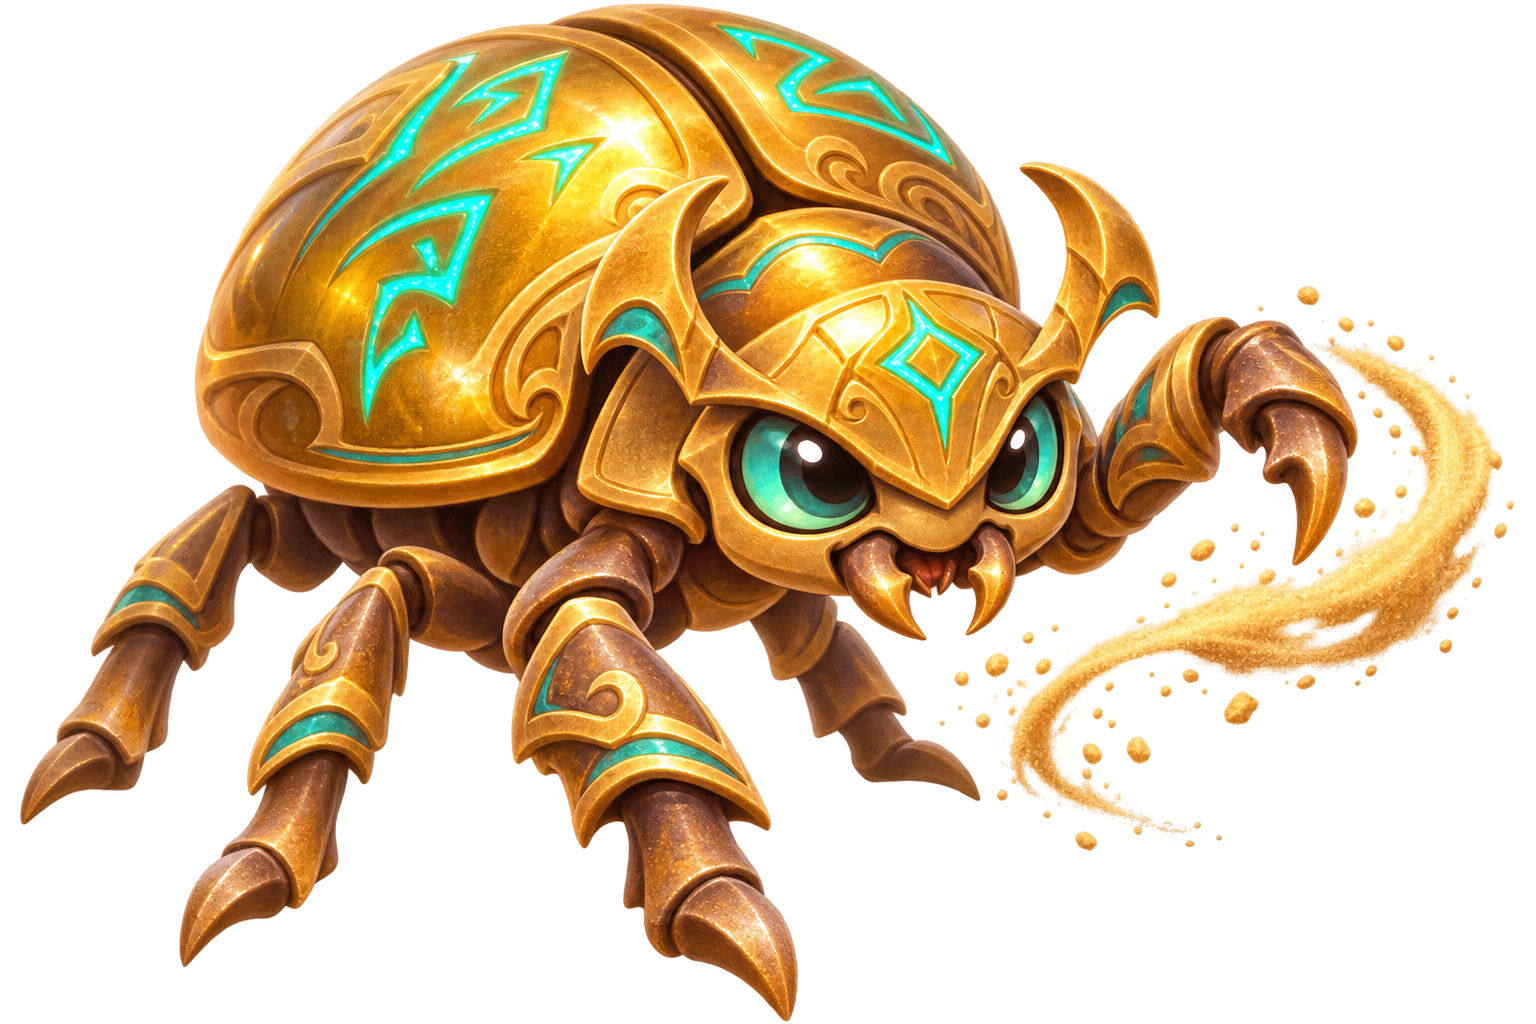
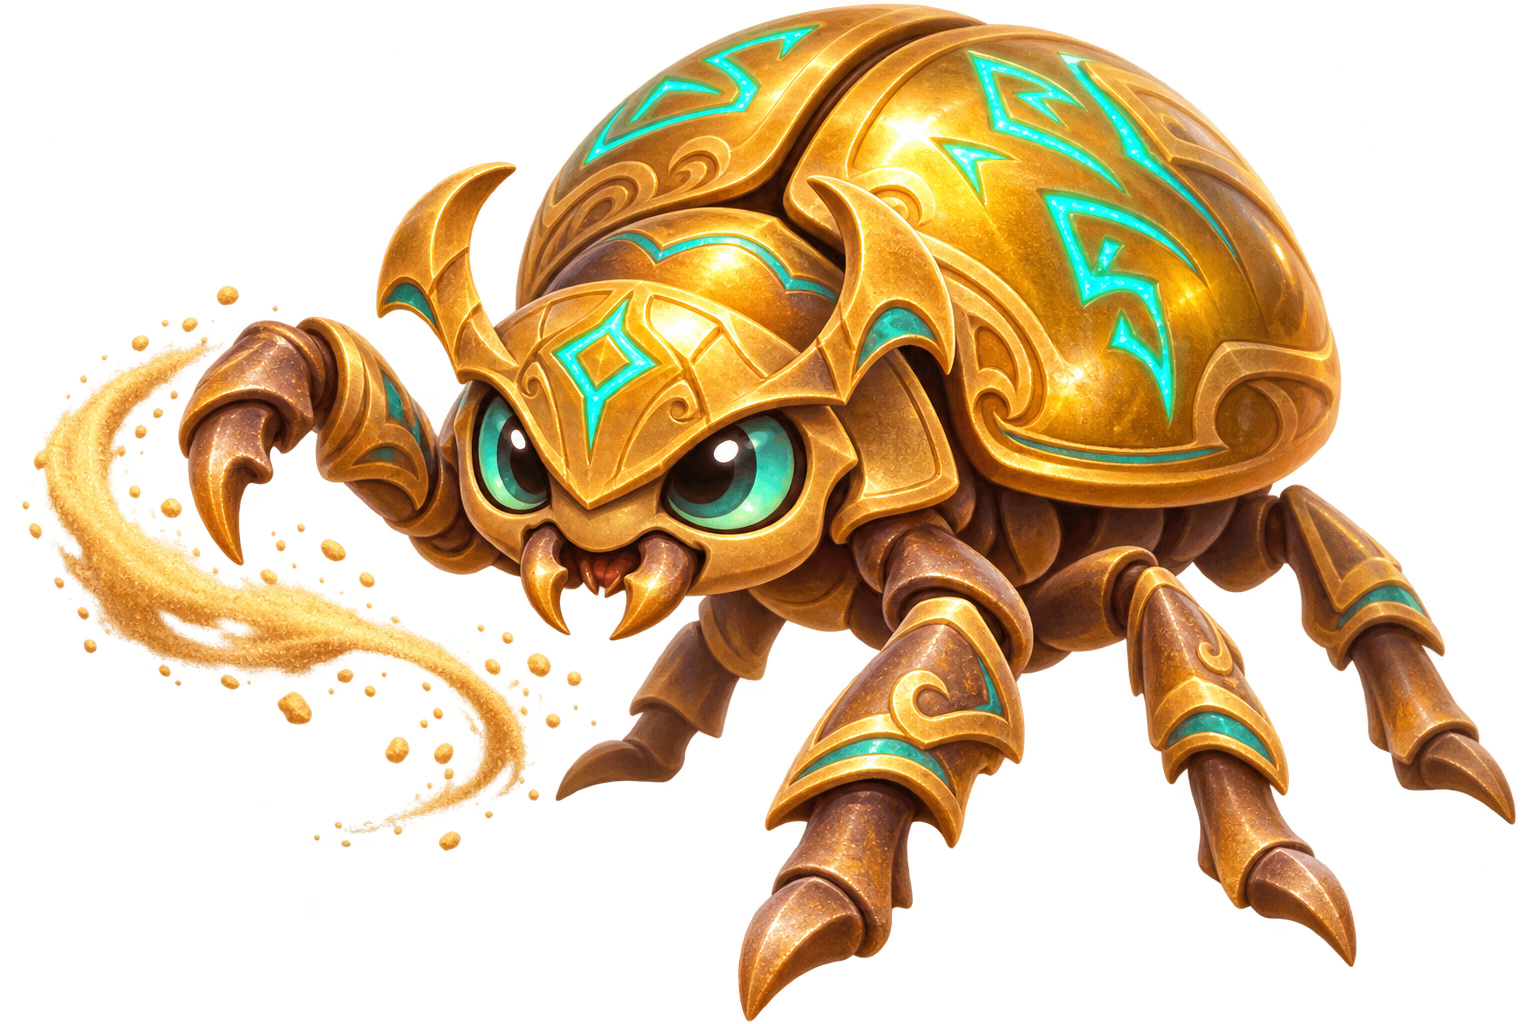
Mapas nuevos de Cavernas, Islas, Volcán y Desierto medidos; el mapa se adapta a plataformas muy separadas; escarabajo mirando a la izquierda; guía: orientación en cada personaje
Claude-Session: https://claude.ai/code/session_015BVxYbLd94MgXUvdp3siHg

diff --git a/lib/config/world_map_config.dart b/lib/config/world_map_config.dart
@@ -79,74 +79,97 @@ const List<Offset> _bosque3 = [
 
 // ---------- Mundo 2: Cavernas ----------
 const List<Offset> _cavernas1 = [
-  Offset(0.493, 0.766),
-  Offset(0.333, 0.712),
-  Offset(0.398, 0.518),
-  Offset(0.497, 0.356),
-  Offset(0.496, 0.248),
+  Offset(0.502, 0.780),
+  Offset(0.333, 0.577),
+  Offset(0.616, 0.505),
+  Offset(0.419, 0.349),
+  Offset(0.574, 0.237),
 ];
 const List<Offset> _cavernas2 = [
-  Offset(0.432, 0.778),
-  Offset(0.550, 0.647),
-  Offset(0.444, 0.482),
-  Offset(0.542, 0.331),
-  Offset(0.450, 0.194),
+  Offset(0.449, 0.772),
+  Offset(0.676, 0.553),
+  Offset(0.361, 0.429),
+  Offset(0.681, 0.320),
+  Offset(0.420, 0.189),
 ];
 const List<Offset> _cavernas3 = [
-  Offset(0.584, 0.791),
-  Offset(0.504, 0.694),
-  Offset(0.589, 0.555),
-  Offset(0.486, 0.448),
-  Offset(0.542, 0.352),
+  Offset(0.497, 0.785),
+  Offset(0.665, 0.593),
+  Offset(0.281, 0.505),
+  Offset(0.400, 0.313),
+  Offset(0.623, 0.224),
 ];
 
 // ---------- Mundo 3: Islas Flotantes ----------
 const List<Offset> _islas1 = [
-  Offset(0.409, 0.787),
-  Offset(0.486, 0.611),
-  Offset(0.464, 0.451),
-  Offset(0.589, 0.337),
-  Offset(0.491, 0.258),
+  Offset(0.208, 0.686),
+  Offset(0.507, 0.686),
+  Offset(0.769, 0.481),
+  Offset(0.356, 0.372),
+  Offset(0.622, 0.221),
 ];
 const List<Offset> _islas2 = [
-  Offset(0.522, 0.733),
-  Offset(0.433, 0.601),
-  Offset(0.494, 0.502),
-  Offset(0.436, 0.382),
-  Offset(0.522, 0.286),
+  Offset(0.190, 0.537),
+  Offset(0.315, 0.308),
+  Offset(0.513, 0.449),
+  Offset(0.705, 0.622),
+  Offset(0.860, 0.353),
 ];
 const List<Offset> _islas3 = [
-  Offset(0.654, 0.721),
-  Offset(0.446, 0.619),
-  Offset(0.530, 0.481),
-  Offset(0.442, 0.343),
-  Offset(0.525, 0.244),
+  Offset(0.208, 0.686),
+  Offset(0.507, 0.686),
+  Offset(0.769, 0.478),
+  Offset(0.356, 0.372),
+  Offset(0.622, 0.221),
 ];
 
 // ---------- Mundo 4: Volcán ----------
 const List<Offset> _volcan1 = [
-  Offset(0.493, 0.707),
-  Offset(0.421, 0.514),
-  Offset(0.591, 0.472),
-  Offset(0.386, 0.361),
-  Offset(0.577, 0.249),
+  Offset(0.534, 0.729),
+  Offset(0.377, 0.561),
+  Offset(0.564, 0.462),
+  Offset(0.424, 0.356),
+  Offset(0.558, 0.248),
 ];
 const List<Offset> _volcan2 = [
-  Offset(0.475, 0.695),
-  Offset(0.508, 0.524),
-  Offset(0.447, 0.412),
-  Offset(0.494, 0.288),
-  Offset(0.491, 0.204),
+  Offset(0.154, 0.413),
+  Offset(0.367, 0.519),
+  Offset(0.537, 0.375),
+  Offset(0.672, 0.530),
+  Offset(0.828, 0.417),
 ];
 const List<Offset> _volcan3 = [
-  Offset(0.492, 0.790),
-  Offset(0.216, 0.688),
-  Offset(0.581, 0.677),
-  Offset(0.412, 0.496),
-  Offset(0.478, 0.412),
+  Offset(0.154, 0.405),
+  Offset(0.375, 0.497),
+  Offset(0.535, 0.346),
+  Offset(0.668, 0.505),
+  Offset(0.828, 0.371),
 ];
 
-// ---------- Mundos 5 y 6: Desierto y Glaciar ----------
+// ---------- Mundo 5: Desierto (medido sobre las imágenes nuevas) ----------
+const List<Offset> _desierto1 = [
+  Offset(0.491, 0.825),
+  Offset(0.459, 0.569),
+  Offset(0.516, 0.385),
+  Offset(0.494, 0.244),
+  Offset(0.588, 0.144),
+];
+const List<Offset> _desierto2 = [
+  Offset(0.085, 0.665),
+  Offset(0.290, 0.565),
+  Offset(0.515, 0.462),
+  Offset(0.737, 0.370),
+  Offset(0.917, 0.278),
+];
+const List<Offset> _desierto3 = [
+  Offset(0.411, 0.745),
+  Offset(0.585, 0.601),
+  Offset(0.467, 0.473),
+  Offset(0.657, 0.372),
+  Offset(0.638, 0.272),
+];
+
+// ---------- Mundo 6: Glaciar ----------
 // Posiciones provisionales (sendero en zigzag por la franja central, como
 // pide la guía de estilo). Se miden de nuevo cuando lleguen las imágenes.
 const List<Offset> _provisional = [
@@ -187,17 +210,17 @@ final Map<int, List<MapSegment>> kWorldMaps = {
   5: const [
     MapSegment(
       asset: 'assets/images/maps/Desierto_1.png',
-      nodes: _provisional,
+      nodes: _desierto1,
       fallback: MapSegment(asset: 'assets/images/Volcan_1.png', nodes: _volcan1),
     ),
     MapSegment(
       asset: 'assets/images/maps/Desierto_2.png',
-      nodes: _provisional,
+      nodes: _desierto2,
       fallback: MapSegment(asset: 'assets/images/Volcan_2.png', nodes: _volcan2),
     ),
     MapSegment(
       asset: 'assets/images/maps/Desierto_3.png',
-      nodes: _provisional,
+      nodes: _desierto3,
       fallback: MapSegment(asset: 'assets/images/Volcan_3.png', nodes: _volcan3),
     ),
   ],

diff --git a/lib/screens/map_screen.dart b/lib/screens/map_screen.dart
@@ -61,7 +61,12 @@ class _SegmentLayout {
   /// Tamaño de los círculos en este tramo.
   final double nodeSize;
 
+  /// Alto del tramo. Normalmente ancho x kSegmentHeightFactor; menos si las
+  /// plataformas de la imagen están muy separadas a lo ancho (ver compute).
+  final double height;
+
   const _SegmentLayout({
+    required this.height,
     required this.imageWidth,
     required this.imageHeight,
     required this.imageLeft,
@@ -77,6 +82,9 @@ class _SegmentLayout {
   ///    imagen dos plataformas están muy juntas, se achican un poco los
   ///    círculos de ese tramo en vez de moverlos (moverlos los sacaba de
   ///    sus plataformas, sobre todo en Islas y Volcán).
+  /// 4. Si las plataformas están tan separadas a lo ancho que no caben en el
+  ///    recorte, se amplía menos la imagen: el tramo queda más bajo, pero
+  ///    todos los niveles se ven enteros.
   factory _SegmentLayout.compute({
     required MapSegment segment,
     required double aspect,
@@ -84,9 +92,6 @@ class _SegmentLayout {
     required double height,
     required double nodeSize,
   }) {
-    final imageWidth = math.max(width, height * aspect);
-    final imageHeight = imageWidth / aspect;
-
     final count = math.min(segment.nodes.length, kNodesPerSegment);
     final raw = [for (int i = 0; i < count; i++) segment.nodeAt(i)];
 
@@ -95,6 +100,15 @@ class _SegmentLayout {
       minX = math.min(minX, p.dx);
       maxX = math.max(maxX, p.dx);
     }
+
+    var imageWidth = math.max(width, height * aspect);
+    // Fracción de la imagen que hace falta ver: de la primera a la última
+    // plataforma, más medio círculo y un margen a cada lado.
+    final needed = math.min(1.0, (maxX - minX) + (nodeSize + 24) / imageWidth);
+    if (width / imageWidth < needed) imageWidth = width / needed;
+    final imageHeight = imageWidth / aspect;
+    height = math.min(height, imageHeight);
+
     final visible = width / imageWidth; // fracción de la imagen que se ve
     final center = ((minX + maxX) / 2).clamp(visible / 2, 1 - visible / 2).toDouble();
     final imageLeft = (center - visible / 2) * imageWidth;
@@ -115,6 +129,7 @@ class _SegmentLayout {
     final size = math.min(nodeSize, closest - kNodeGap).clamp(34.0, nodeSize).toDouble();
 
     return _SegmentLayout(
+      height: height,
       imageWidth: imageWidth,
       imageHeight: imageHeight,
       imageLeft: imageLeft,
@@ -553,7 +568,7 @@ class _MapScreenState extends State<MapScreen>
             ),
         ];
 
-        _scheduleScrollToCurrent(parts, layouts, height, constraints.maxHeight, currentIndex);
+        _scheduleScrollToCurrent(parts, layouts, constraints.maxHeight, currentIndex);
 
         return SingleChildScrollView(
           controller: _scroll,
@@ -567,7 +582,7 @@ class _MapScreenState extends State<MapScreen>
                     segment: _segmentFor(segments[parts[i].chapter - 1], parts[i].part),
                     layout: layouts[i],
                     width: width,
-                    height: height,
+                    height: layouts[i].height,
                     isTop: i == 0,
                     currentIndex: currentIndex,
                   ),
@@ -610,7 +625,6 @@ class _MapScreenState extends State<MapScreen>
   void _scheduleScrollToCurrent(
     List<({int chapter, int part})> parts,
     List<_SegmentLayout> layouts,
-    double segmentHeight,
     double viewportHeight,
     int currentIndex,
   ) {
@@ -629,7 +643,7 @@ class _MapScreenState extends State<MapScreen>
     for (; index < parts.length; index++) {
       final p = parts[index];
       if (p.chapter == chapter && p.part == part) break;
-      offset += segmentHeight;
+      offset += layouts[index].height;
       if (p.part == 0) offset += kChapterBannerHeight;
     }
     if (index >= layouts.length) return;

diff --git a/docs/GUIA_ESTILO_VISUAL.md b/docs/GUIA_ESTILO_VISUAL.md
@@ -60,8 +60,10 @@ Orientación: de perfil 3/4, MIRANDO A LA IZQUIERDA.
 | `NOMBRE_idle_hurt1.png` | Igual que idle, con algún rasguño |
 | `NOMBRE_idle_hurt2.png` | Igual que idle, muy golpeado (moretones, vendas) |
 
-Frase útil para las poses: *"Mismo personaje, misma escala y misma posición en
-la imagen; solo cambia la postura."*
+Frase útil para las poses: *"Mismo personaje, misma escala, misma posición en
+la imagen y mirando a la IZQUIERDA; solo cambia la postura."* Si alguna sale
+mirando a la derecha, no pasa nada: se puede voltear, pero todas las poses de un
+mismo monstruo deben mirar al mismo lado.
 
 ---
 
@@ -185,8 +187,8 @@ persigue por el desierto hasta su fortaleza en el glaciar, donde es el jefe fina
 | `Desierto_1.png` (mapa) | 🆕 Nuevo | Dunas doradas con columnas caídas cubiertas de runas que brillan en turquesa; un oasis pequeño abajo. |
 | `Desierto_2.png` (mapa) | 🆕 Nuevo | Ruinas de una ciudad antigua medio enterrada en la arena, arcos y escaleras con letras grabadas. |
 | `Desierto_3.png` (mapa) | 🆕 Nuevo | Templo gigante en la arena bajo una tormenta de arena, con runas apagándose (el Devorador ya pasó). |
-| `mini_sand_scarab.png` + poses | 🆕 Nuevo | **Escarabajo de arena**: escarabajo grande con caparazón dorado lleno de runas turquesa, patas de bronce, ojos grandes y amistosos-pícaros. Ataca lanzando arena. |
-| `flyer_w5_1/2.png` | 🆕 Nuevo | **Halcón de arena**: halcón dorado con plumas que se deshacen en arena, alas arriba / alas abajo. |
+| `mini_sand_scarab.png` + poses | 🆕 Nuevo | **Escarabajo de arena**: escarabajo grande con caparazón dorado lleno de runas turquesa, patas de bronce, ojos grandes y amistosos-pícaros. Ataca lanzando arena. **Mirando a la IZQUIERDA** (en todas las poses). |
+| `flyer_w5_1/2.png` | 🆕 Nuevo | **Halcón de arena**: halcón dorado con plumas que se deshacen en arena, alas arriba / alas abajo. **Mirando a la IZQUIERDA** (en todas las poses). |
 
 ### Mundo 6 · Glaciar Eterno (nuevo)
 
@@ -195,9 +197,9 @@ persigue por el desierto hasta su fortaleza en el glaciar, donde es el jefe fina
 | `Glaciar_1.png` (mapa) | 🆕 Nuevo | Llanura helada con lagos congelados, pinos nevados y auroras verdes y violetas en el cielo. |
 | `Glaciar_2.png` (mapa) | 🆕 Nuevo | Cuevas de hielo azul con puentes de hielo y letras congeladas dentro de los bloques. |
 | `Glaciar_3.png` (mapa) | 🆕 Nuevo | Fortaleza de hielo oscuro del Devorador de Palabras, con libros congelados y runas apagadas. |
-| `mini_frost_yeti.png` + poses | 🆕 Nuevo | **Yeti de escarcha**: yeti pequeño y robusto, pelaje blanco-azulado, cristales de hielo en hombros, bufanda turquesa. Ataca con bolas de nieve. |
-| `flyer_w6_1/2.png` | 🆕 Nuevo | **Búho de hielo**: búho blanco con plumas de cristal de hielo, alas arriba / alas abajo. |
-| `word_devourer.png` + poses | 🆕 Nuevo | **El Devorador de Palabras** (jefe final): criatura de sombra con capa hecha de páginas arrancadas, letras que flotan hacia su boca, ojos violetas. Imponente pero no terrorífico (13+). |
+| `mini_frost_yeti.png` + poses | 🆕 Nuevo | **Yeti de escarcha**: yeti pequeño y robusto, pelaje blanco-azulado, cristales de hielo en hombros, bufanda turquesa. Ataca con bolas de nieve. **Mirando a la IZQUIERDA** (en todas las poses). |
+| `flyer_w6_1/2.png` | 🆕 Nuevo | **Búho de hielo**: búho blanco con plumas de cristal de hielo, alas arriba / alas abajo. **Mirando a la IZQUIERDA** (en todas las poses). |
+| `word_devourer.png` + poses | 🆕 Nuevo | **El Devorador de Palabras** (jefe final): criatura de sombra con capa hecha de páginas arrancadas, letras que flotan hacia su boca, ojos violetas. Imponente pero no terrorífico (13+). **Mirando a la IZQUIERDA** (en todas las poses). |
 
 ---
 
